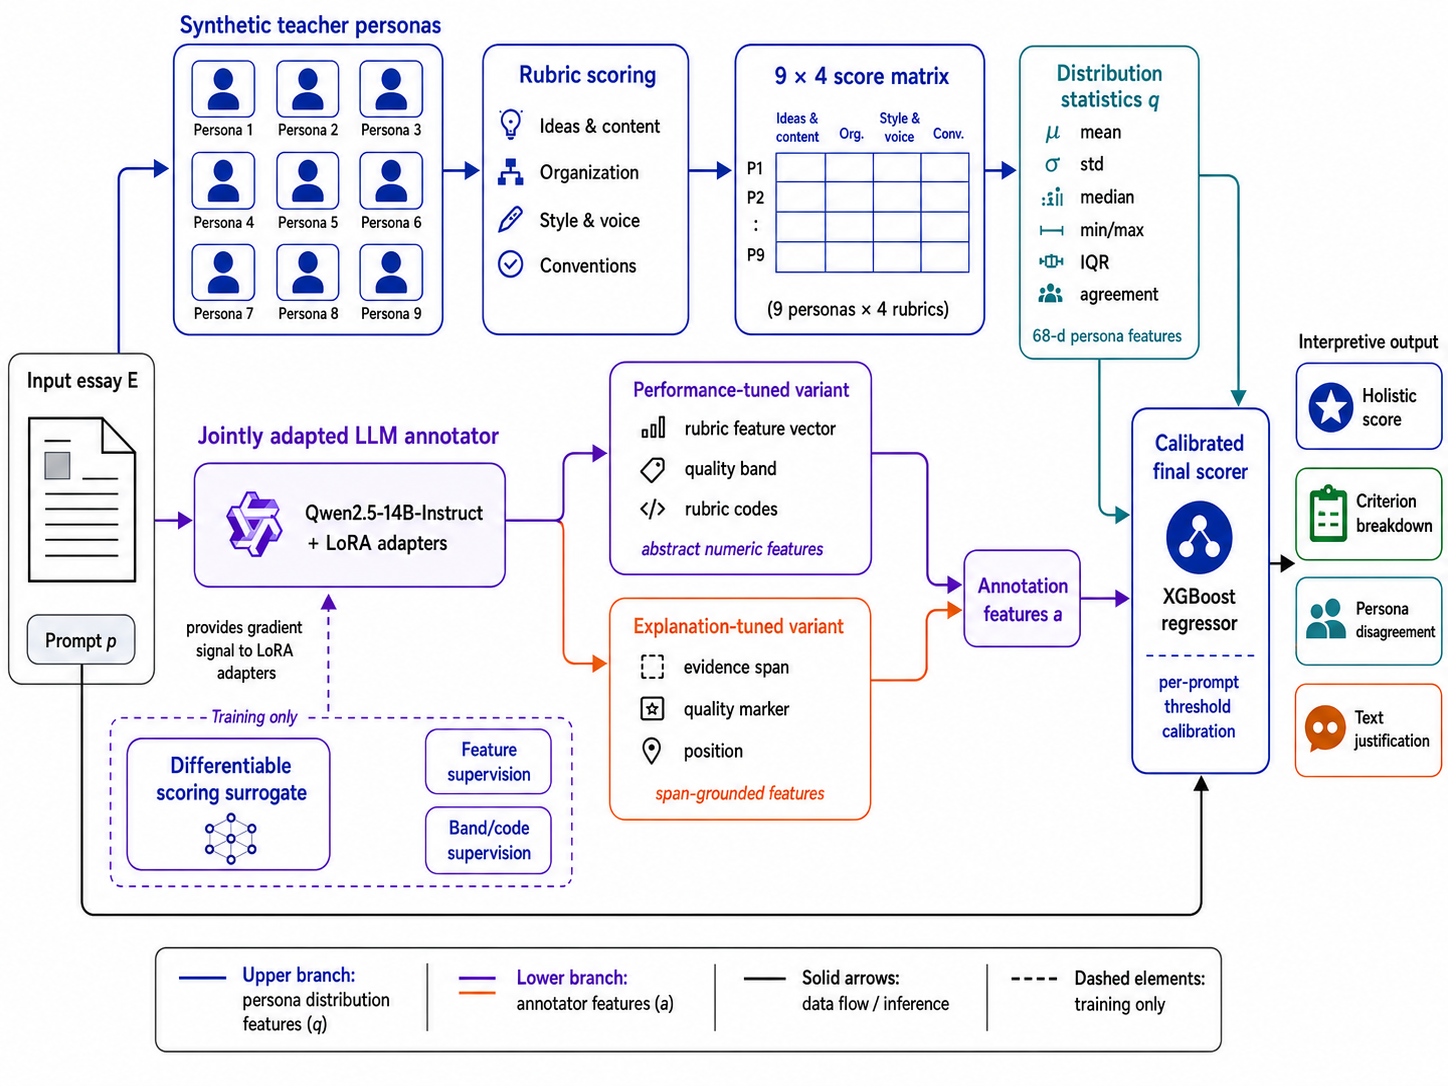
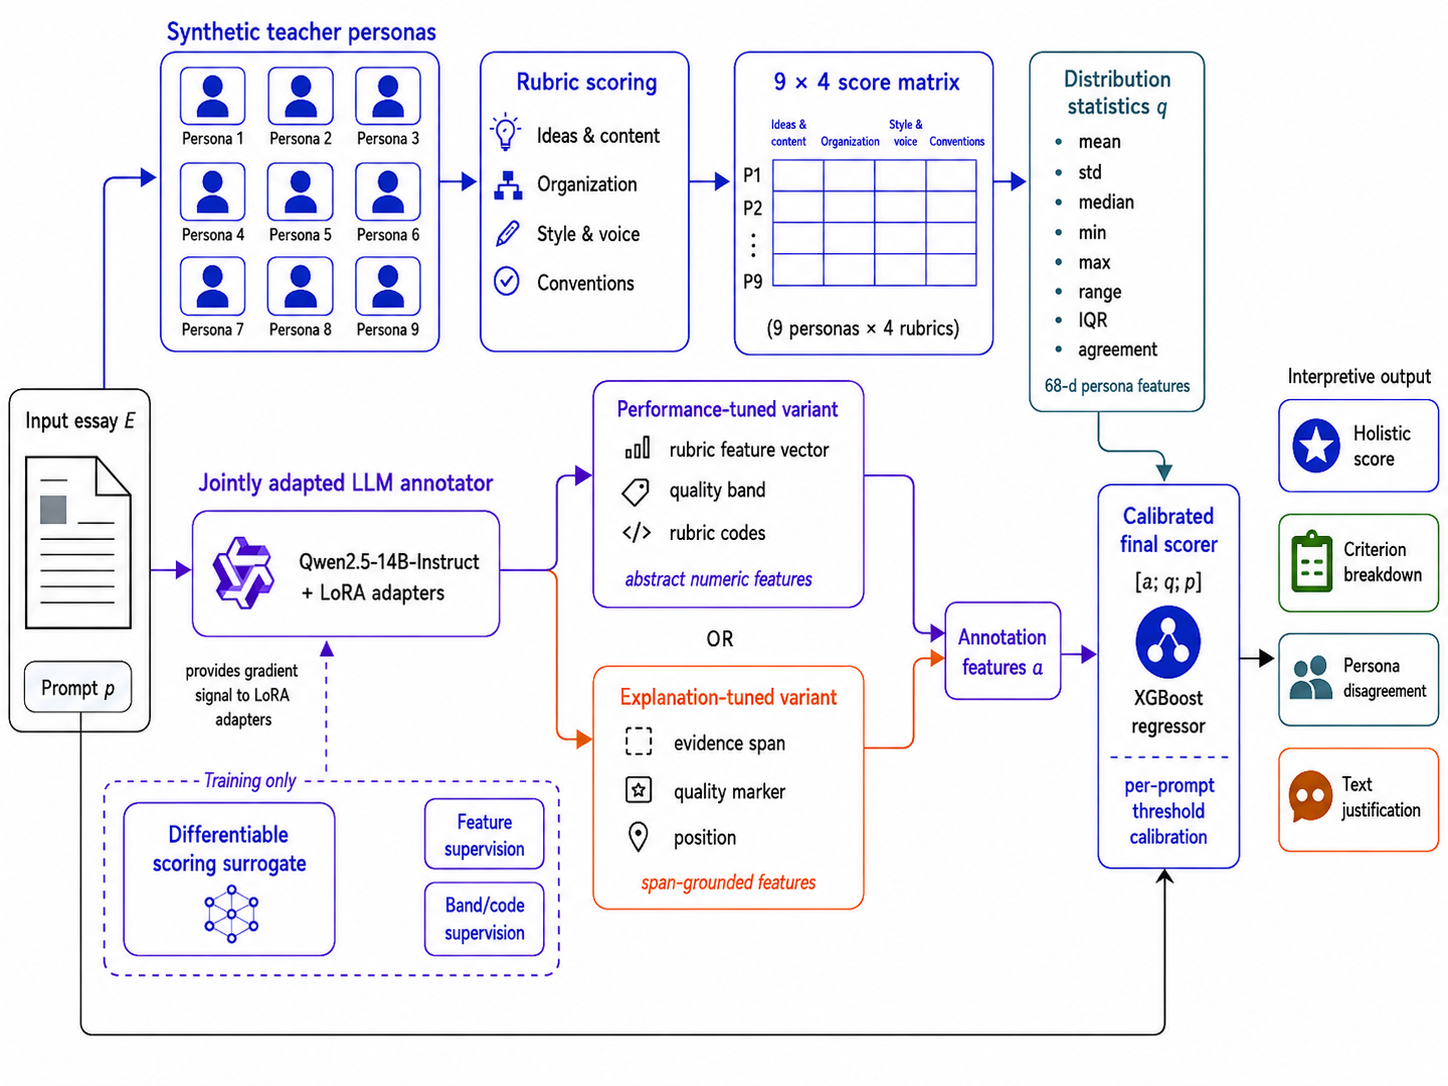
Update project page links and examples

Changed region(s): [[0.0, 0.0, 1.0, 0.9724]]

diff --git a/index.html b/index.html
@@ -339,8 +339,7 @@
         <a class="btn primary" href="#abstract">Read abstract</a>
         <a class="btn" href="#method">Method</a>
         <a class="btn" href="#demo">View grounded reports</a>
-        <a class="btn" href="paper.pdf">Paper (PDF)</a>
-        <a class="btn" href="https://github.com/USERNAME/grade-aes">Code</a>
+        <a class="btn" href="https://github.com/Anonyme-Grade/GRADE">Code</a>
       </div>
     </div>
   </header>
@@ -445,7 +444,7 @@
     <section id="demo">
       <div class="wrap">
         <div class="demo-intro">
-          <strong>Below: three test essays with their full GRADE explanation reports.</strong>
+          <strong>Below: three held-out essays with GRADE-style grounded explanation reports.</strong>
           Switch tabs to see the same report format applied to essays at different score levels. Each report shows rubric feature scores, verified essay quotes that ground the model's judgments, a summary of strengths and weaknesses, and a snapshot of how the nine synthetic teacher personas distributed their scores. All quotes are verified to appear verbatim in the essay; unsupported claims are flagged rather than silently included.
         </div>
 
@@ -455,9 +454,9 @@
             <p class="lead">Anonymized examples from the held-out ASAP2 test set, showing the explanation-tuned report format.</p>
           </div>
           <div class="tabs" role="tablist" aria-label="Report examples">
-            <button class="tab active" data-tab="strong" role="tab" aria-selected="true">Strong essay (6/6)</button>
-            <button class="tab" data-tab="medium" role="tab" aria-selected="false">Medium essay (4/6)</button>
-            <button class="tab" data-tab="weak" role="tab" aria-selected="false">Weak essay (2/6)</button>
+            <button class="tab active" data-tab="strong" role="tab" aria-selected="true">Strong essay (5/6)</button>
+            <button class="tab" data-tab="medium" role="tab" aria-selected="false">Middle-range essay (3/6)</button>
+            <button class="tab" data-tab="weak" role="tab" aria-selected="false">Developing essay (1/6)</button>
           </div>
         </div>
 
@@ -487,7 +486,7 @@
         </div>
 
         <div class="demo-footer">
-          <strong>What you're seeing:</strong> the GRADE explanation-tuned variant produces these reports as its native output. Every rubric feature score corresponds to one or more verbatim quotes from the essay, classified as strength, weakness, or error. The persona snapshot shows the distribution of judgments from nine synthetic teacher graders — narrow distributions indicate clear-cut essays; wide distributions flag borderline cases for human review.
+          <strong>What you're seeing:</strong> the GRADE explanation-tuned variant produces grounded evidence as its native output. Every rubric feature score corresponds to one or more verbatim quotes from the essay, classified as strength, weakness, or error. The persona snapshot shows the distribution of judgments from nine synthetic teacher graders; narrow distributions indicate clear-cut essays and wider distributions flag borderline cases for human review.
         </div>
       </div>
     </section>
@@ -517,113 +516,104 @@
     const examples = {
       strong: {
         title: "Strong essay",
-        essayId: "AAAVUP14319000108247",
-        prompt: "Exploring Venus",
-        words: 497,
-        trueScore: "6/6",
-        predicted: "6/6",
-        raw: "5.82",
-        quality: "high",
+        essayId: "AAATRP14318000416027",
+        prompt: "Facial action coding system",
+        words: 521,
+        trueScore: "5/6",
+        predicted: "5/6",
         verified: "12/12",
-        strengths: 6,
-        weaknesses: 1,
+        strengths: 8,
+        weaknesses: 4,
         errors: 0,
         features: {
-          "Claim support": 9,
-          "Source integration": 8,
-          "Organization": 7,
-          "Sentence fluency": 7,
-          "Conventions": 9,
-          "Overall strength": 8
+          "Claim support": 6,
+          "Conclusion quality": 7,
+          "Grammar": 5,
+          "Intro quality": 8,
+          "Organization": 8,
+          "Punctuation": 6
         },
         personas: {
-          "Ideas & content":   { mean: 8.7, std: 0.6 },
-          "Organization":      { mean: 7.9, std: 0.8 },
-          "Style & voice":     { mean: 8.3, std: 0.7 },
-          "Conventions":       { mean: 9.1, std: 0.4 }
+          "Ideas & content": { mean: 7.3, std: 0.7 },
+          "Organization": { mean: 6.8, std: 0.4 },
+          "Style & voice": { mean: 6.2, std: 0.6 },
+          "Conventions": { mean: 6.9, std: 0.7 }
         },
         refs: [
-          {type:"strength", category:"Ideas / claim support", quote:"The effective conveying of benefits helps to support its idea of risking danger for the reward of landing.", why:"The essay clearly supports the main argument with relevant benefits."},
-          {type:"strength", category:"Source integration", quote:"The introduction of NASA also builds up this ethos, as to bring the audience to better trust in the author.", why:"The essay integrates external sources to build credibility."},
-          {type:"weakness", category:"Organization", quote:"However in contrast with the effective support of the main idea, the author also...", why:"The transition between supporting and opposing points is abrupt and could be smoother."}
+          {type:"strength", category:"Ideas", quote:"This is because of a new technology, the Facial Action Coding System, that 'tracks these facial movements'", why:"The essay clearly introduces the main idea and provides a concise explanation of the technology."},
+          {type:"strength", category:"Organization", quote:"Think of all the children who struggle because of the pace or difficulty of a class.", why:"The paragraphs are well structured and logically flow from one point to another."},
+          {type:"weakness", category:"Style", quote:"But by using this technology to address confusion, the students' understanding of the content will strengthen.", why:"The language is somewhat repetitive and lacks variety."},
+          {type:"weakness", category:"Conventions", quote:"There are many positives with being aware of a student's confusion.", why:"The sentence structure is awkward and grammatically incorrect."}
         ]
       },
       medium: {
-        title: "Medium essay",
-        essayId: "AAATRP14318001080035",
-        prompt: "Facial action coding system",
-        words: 420,
-        trueScore: "4/6",
-        predicted: "4/6",
-        raw: "4.11",
-        quality: "mid",
-        verified: "10/10",
-        strengths: 5,
-        weaknesses: 3,
-        errors: 2,
+        title: "Middle-range essay",
+        essayId: "AAAVUP14319000146533",
+        prompt: "Exploring Venus",
+        words: 360,
+        trueScore: "3/6",
+        predicted: "3/6",
+        verified: "12/12",
+        strengths: 6,
+        weaknesses: 6,
+        errors: 0,
         features: {
-          "Thesis clarity": 7,
-          "Evidence specificity": 6,
-          "Organization": 7,
-          "Sentence fluency": 8,
-          "Conventions": 6,
-          "Overall strength": 7
+          "Grammar": 4,
+          "Claim support": 6,
+          "Intro quality": 5,
+          "Organization": 4,
+          "Punctuation": 3,
+          "Sentence variety": 3
         },
         personas: {
-          "Ideas & content":   { mean: 6.8, std: 1.1 },
-          "Organization":      { mean: 7.0, std: 0.9 },
-          "Style & voice":     { mean: 7.2, std: 1.0 },
-          "Conventions":       { mean: 6.0, std: 1.2 }
+          "Ideas & content": { mean: 5.4, std: 1.3 },
+          "Organization": { mean: 4.2, std: 1.2 },
+          "Style & voice": { mean: 4.0, std: 0.9 },
+          "Conventions": { mean: 3.4, std: 0.7 }
         },
         refs: [
-          {type:"strength", category:"Ideas", quote:"Being able to identify emotions can be useful in countless situations.", why:"This sentence clearly introduces the potential benefits of the technology."},
-          {type:"weakness", category:"Organization", quote:"Tracking the muscles in the face of a student can really help the computer see what they are really thinking or feeling...", why:"The statement supports the argument but is not smoothly connected to previous points."},
-          {type:"error", category:"Conventions", quote:"their is something that the student likes", why:"There should be \u201cthere\u201d instead of \u201ctheir.\u201d"}
+          {type:"strength", category:"Ideas", quote:"Venus is the second planet in our solar system it is proved that it is a very challenging place to study and It is also the closest to earth.", why:"The essay begins by introducing Venus and its proximity to Earth, setting up the challenge of studying it."},
+          {type:"strength", category:"Style", quote:"It has a thick atmosphere of 97% of carbon dioxide which is considered toxic and harmful to humans.", why:"The writer uses vivid language to describe the harsh conditions on Venus."},
+          {type:"weakness", category:"Organization", quote:"Every mission to venus has been unmanned for good reasons because no spacecraft survived the landing for more than a few hours", why:"This information is presented without clear structure, making it difficult to follow the main points."},
+          {type:"weakness", category:"Conventions", quote:"It also has the hottest surface in the planet after mecury.", why:"There is a spelling error in the reference to Mercury."}
         ]
       },
       weak: {
-        title: "Weak essay",
-        essayId: "AAAVUP14319000159542",
+        title: "Developing essay",
+        essayId: "AAAVUP14319000056642",
         prompt: "Exploring Venus",
-        words: 200,
-        trueScore: "2/6",
-        predicted: "2/6",
-        raw: "1.82",
-        quality: "low",
-        verified: "10/12",
+        words: 339,
+        trueScore: "1/6",
+        predicted: "1/6",
+        verified: "12/12",
         strengths: 1,
-        weaknesses: 8,
-        errors: 1,
+        weaknesses: 11,
+        errors: 0,
         features: {
-          "Thesis clarity": 3,
-          "Evidence specificity": 2,
-          "Organization": 3,
-          "Sentence fluency": 2,
-          "Conventions": 2,
-          "Overall strength": 3
+          "Claim support": 3,
+          "Conclusion quality": 3,
+          "Evidence use": 3,
+          "Grammar": 2,
+          "Intro quality": 3,
+          "Organization": 3
         },
         personas: {
-          "Ideas & content":   { mean: 2.6, std: 0.9 },
-          "Organization":      { mean: 3.1, std: 0.8 },
-          "Style & voice":     { mean: 2.4, std: 1.0 },
-          "Conventions":       { mean: 2.2, std: 0.7 }
+          "Ideas & content": { mean: 2.6, std: 0.7 },
+          "Organization": { mean: 2.0, std: 0.5 },
+          "Style & voice": { mean: 2.1, std: 0.3 },
+          "Conventions": { mean: 2.0, std: 0.0 }
         },
         refs: [
-          {type:"weakness", category:"Ideas", quote:"They have been researching diffrent methods on how to sustaine life on the planet", why:"The statement is vague and does not align clearly with the source text."},
-          {type:"weakness", category:"Organization", quote:"Yes we are trying to figer out our planet earth still but there may be diffrent ways...", why:"The sentence lacks coherence and does not connect clearly to the argument about exploring Venus."},
-          {type:"error", category:"Conventions", quote:"diffrent", why:"Incorrect spelling of \u201cdifferent.\u201d"}
+          {type:"strength", category:"Style", quote:"Maybe we do not need all of the tech stuff like we have today if it worked back then it will work today", why:"The writer's questioning tone gives the essay a distinct voice."},
+          {type:"weakness", category:"Ideas", quote:"the auther of this story will never know how they are going to do it because they will not say how they did it", why:"The thesis is unclear and does not effectively summarize the main argument."},
+          {type:"weakness", category:"Organization", quote:"But they did it a long time a long why can we not do it now", why:"Paragraphs lack clear structure and logical flow, making it difficult to follow the argument."},
+          {type:"weakness", category:"Style", quote:"back 1940 it did not require electronics at all because they did not have it back then", why:"Word choice is inconsistent and sometimes inaccurate, affecting clarity."}
         ]
       }
     };
 
     function escapeHtml(str) {
       return String(str).replace(/[&<>"']/g, m => ({'&':'&amp;','<':'&lt;','>':'&gt;','"':'&quot;',"'":'&#039;'}[m]));
-    }
-
-    function qualityTagClass(q) {
-      if (q === "low") return "low";
-      if (q === "high" || q === "top") return "high";
-      return "warn";
     }
 
     function setExample(key) {
@@ -634,14 +624,12 @@
         b.setAttribute('aria-selected', active ? 'true' : 'false');
       });
 
-      const qClass = qualityTagClass(ex.quality);
       document.getElementById('reportMeta').innerHTML = `
         <span class="tag blue">${escapeHtml(ex.title)}</span>
         <span class="tag">Essay: ${escapeHtml(ex.essayId)}</span>
         <span class="tag">Prompt: ${escapeHtml(ex.prompt)}</span>
         <span class="tag">Words: ${escapeHtml(ex.words)}</span>
-        <span class="tag ok">Predicted: ${escapeHtml(ex.predicted)} (raw: ${escapeHtml(ex.raw)})</span>
-        <span class="tag ${qClass}">Quality band: ${escapeHtml(ex.quality)}</span>`;
+        <span class="tag ok">Report score: ${escapeHtml(ex.predicted)}</span>`;
 
       document.getElementById('summaryRow').innerHTML = `
         <div class="summary-item"><strong>${escapeHtml(ex.trueScore.split('/')[0])}</strong><span>True score</span></div>
